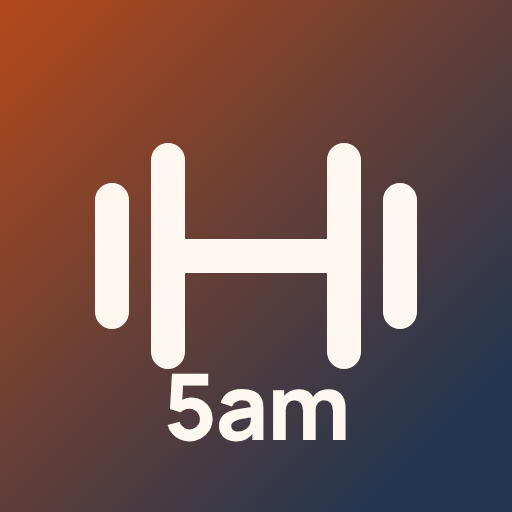
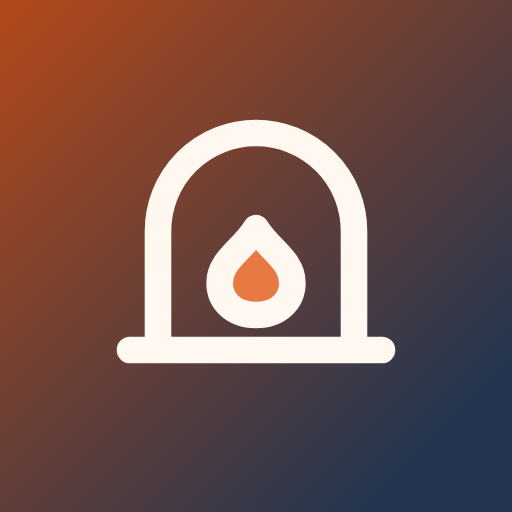
Rename the app to Kiln
Owner-chosen name. New kiln-and-ember brand mark in the header and on the
app icon (copper-to-navy). Home-screen name, page title, manifest, Coach
Claude's system prompt, snapshot, backup/CSV file names, test-QR page and
README updated. The backup format id stays '5am-workout' so existing
backups still restore.

Claude-Session: https://claude.ai/code/session_01LoLbERHwtNurjoYvqErftT

Changed region(s): [[0.1875, 0.2188, 0.8125, 0.875], [0.4375, 0.4062, 0.5625, 0.4688]]

diff --git a/index.html b/index.html
@@ -7,9 +7,9 @@
 <meta name="apple-mobile-web-app-capable" content="yes">
 <meta name="mobile-web-app-capable" content="yes">
 <meta name="apple-mobile-web-app-status-bar-style" content="black-translucent">
-<meta name="apple-mobile-web-app-title" content="5am Workout">
-<meta name="description" content="Scan Crunch machines, log sets, track the scale, and let Coach Claude forecast your path to your goal.">
-<title>5am Workout</title>
+<meta name="apple-mobile-web-app-title" content="Kiln">
+<meta name="description" content="Kiln: scan Crunch machines, log sets, track the scale, and let Coach Claude forecast your path to your goal.">
+<title>Kiln</title>
 <link rel="manifest" href="manifest.webmanifest">
 <link rel="icon" href="icons/icon.svg" type="image/svg+xml">
 <link rel="apple-touch-icon" href="icons/apple-touch-icon.png">
@@ -18,7 +18,7 @@
 </head>
 <body>
 <header class="top">
-  <a class="brand" href="#/today" aria-label="5am Workout home"><span class="logo">5am</span><span class="brand-name">Workout</span></a>
+  <a class="brand" href="#/today" aria-label="Kiln home"><span class="logo"><svg class="i" width="20" height="20" viewBox="0 0 24 24" fill="none" stroke="currentColor" stroke-width="2.2" stroke-linecap="round" stroke-linejoin="round" aria-hidden="true"><path d="M5 20v-8.5a7 7 0 0 1 14 0V20M3 20h18"/><path d="M12 17.5c-1.6 0-2.6-1-2.6-2.3 0-1.6 1.6-2.3 2.6-3.9 1 1.6 2.6 2.3 2.6 3.9 0 1.3-1 2.3-2.6 2.3z"/></svg></span><span class="brand-name">Kiln</span></a>
   <button class="safety-btn" data-act="safety"><svg class="i" width="15" height="15" viewBox="0 0 24 24" fill="none" stroke="currentColor" stroke-width="2" stroke-linecap="round" stroke-linejoin="round" aria-hidden="true"><path d="M12 3l9.5 17h-19zM12 10v4M12 17.2v.3"/></svg> Safety</button>
 </header>
 

diff --git a/test-qr/index.html b/test-qr/index.html
@@ -2,7 +2,7 @@
 <title>Test QR codes</title><style>body{font:16px system-ui,sans-serif;margin:24px;color:#1d1433;background:#fff4ec}
 main{display:flex;flex-wrap:wrap;gap:24px}figure{margin:0;background:#fff;padding:16px;border-radius:20px;box-shadow:0 8px 24px rgba(0,0,0,.08);text-align:center}
 code{font-size:11px;word-break:break-all}</style></head><body>
-<h1>Test QR codes for 5am Workout</h1><p>Open this page on a laptop, then use the app's <b>Scan</b> tab on your iPhone to try the flow at home — no gym needed. These are fake machines (example.com).</p>
+<h1>Test QR codes for Kiln</h1><p>Open this page on a laptop, then use the app's <b>Scan</b> tab on your iPhone to try the flow at home — no gym needed. These are fake machines (example.com).</p>
 <main><figure><img src="leg-press.png" alt="Test QR for Leg press" width="240" height="240"><figcaption><b>Leg press</b><br><code>https://example.com/crunch-stratford-test/seated-leg-press</code></figcaption></figure>
 <figure><img src="cable.png" alt="Test QR for Cable station" width="240" height="240"><figcaption><b>Cable station</b><br><code>https://example.com/crunch-stratford-test/cable-crossover</code></figcaption></figure>
 <figure><img src="chest-press.png" alt="Test QR for Chest press" width="240" height="240"><figcaption><b>Chest press</b><br><code>https://example.com/crunch-stratford-test/chest-press</code></figcaption></figure>

diff --git a/css/app.css b/css/app.css
@@ -82,7 +82,8 @@ h1, h2, h3 { font-weight: 800; }
   padding: 10px 16px; padding-top: max(10px, env(safe-area-inset-top));
   background: color-mix(in srgb, var(--bg) 88%, transparent); backdrop-filter: blur(14px); -webkit-backdrop-filter: blur(14px); }
 .brand { flex: 1; display: flex; align-items: center; gap: 7px; text-decoration: none; font-weight: 800; font-size: 19px; letter-spacing: -.3px; }
-.logo { background: var(--accent); color: var(--on-accent); padding: 2px 8px; border-radius: 9px; font-size: 15px; }
+.logo { width: 32px; height: 32px; display: grid; place-items: center; background: var(--accent); color: var(--on-accent); border-radius: 10px; }
+.brand-name { font-size: 21px; letter-spacing: -.4px; }
 .safety-btn { display: inline-flex; align-items: center; gap: 5px; background: transparent; color: var(--danger);
   border: 1.5px solid var(--danger); border-radius: 999px; padding: 6px 12px; font-weight: 700; font-size: 13px; }
 main { padding: 4px 16px 120px; max-width: 640px; margin: 0 auto; outline: none; display: flex; flex-direction: column; gap: 12px; }

diff --git a/js/views/me.js b/js/views/me.js
@@ -184,7 +184,7 @@ export const actions = {
   testHealthW: () => sendWeight(180),
   testHealthWo: () => sendWorkout(1),
   exportJson() {
-    download(`5am-workout-backup-${todayStr()}.json`, JSON.stringify(exportAll(), null, 1));
+    download(`kiln-backup-${todayStr()}.json`, JSON.stringify(exportAll(), null, 1));
     markBackedUp();
     if (current().name === 'today') rerender({ keepScroll: true }); // drop the reminder card
   },
@@ -192,6 +192,6 @@ export const actions = {
     const ex = allExercises();
     const rows = [['date', 'exercise', 'set', 'weight_lb', 'reps', 'rpe', 'minutes', 'machine', 'note']];
     for (const e of getLog()) e.sets.forEach((s, i) => rows.push([e.date, ex[e.exId] ? ex[e.exId].name : e.exId, i + 1, s.w ?? '', s.r ?? '', s.rpe ?? '', s.min ?? '', e.machineId || '', i === 0 ? e.note || '' : '']));
-    download(`5am-workout-${todayStr()}.csv`, rows.map(r => r.map(csvCell).join(',')).join('\n'), 'text/csv');
+    download(`kiln-log-${todayStr()}.csv`, rows.map(r => r.map(csvCell).join(',')).join('\n'), 'text/csv');
   }
 };

diff --git a/js/store.js b/js/store.js
@@ -240,6 +240,7 @@ export const getMeta = () => loadTyped('meta', {});
 export const markBackedUp = () => save(KEYS.meta, { ...getMeta(), lastBackup: Date.now() });
 
 export function exportAll() {
+  // '5am-workout' is the backup FORMAT id (the app's original name) — keep it so old and new backups restore.
   const out = { app: '5am-workout', exported: new Date().toISOString(), data: {} };
   for (const k of Object.values(KEYS)) {
     const v = load(k, undefined);
@@ -250,7 +251,7 @@ export function exportAll() {
 
 /** Restore a backup. Validates EVERYTHING first, so a bad file never half-overwrites your data. */
 export function importAll(obj) {
-  if (!isObj(obj) || obj.app !== '5am-workout' || !isObj(obj.data)) throw new Error('Not a 5am Workout backup file');
+  if (!isObj(obj) || obj.app !== '5am-workout' || !isObj(obj.data)) throw new Error('Not a Kiln backup file');
   const byKey = Object.fromEntries(Object.entries(KEYS).map(([name, key]) => [key, name]));
   const writes = [];
   for (const [k, v] of Object.entries(obj.data)) {

diff --git a/api/coach.js b/api/coach.js
@@ -33,7 +33,7 @@ export const CoachReport = z.object({
   questions_for_doctor: z.array(z.string()).describe('Medical questions to bring to the cardiologist. Empty if none.')
 });
 
-export const SYSTEM = `You are Coach Claude, the strength coach inside the "5am Workout" app used at Crunch Fitness. The member likes being called "Brother" — keep it warm, upbeat and brief.
+export const SYSTEM = `You are Coach Claude, the strength coach inside "Kiln", a training app used at Crunch Fitness. The member likes being called "Brother" — keep it warm, upbeat and brief.
 
 You get a JSON snapshot: the member's goal, their logged machines/exercises (sets as weight×reps@RPE, pounds), body-weight weigh-ins from the gym scale, adherence, notes, the app's own trend estimates, and their safety context. Analyze progress and forecast the best path to the goal.
 

diff --git a/tests/store.test.js b/tests/store.test.js
@@ -80,7 +80,7 @@ test('restore validates everything before writing anything (v1 bug S4)', () => {
   reset();
   addSet({ exId: 'legpress', set: { w: 100, r: 12 } });
   const before = localStorage.getItem('wh_log');
-  assert.throws(() => importAll({ app: 'other', data: {} }), /Not a 5am Workout backup/);
+  assert.throws(() => importAll({ app: 'other', data: {} }), /Not a Kiln backup/);
   assert.throws(() => importAll({ app: '5am-workout', data: { wh_goal: { type: 'lose' }, wh_log: { not: 'an array' } } }), /wrong shape/);
   assert.throws(() => importAll({ app: '5am-workout', data: { wh_log: [{ date: 5 }] } }), /damaged/);
   assert.equal(localStorage.getItem('wh_log'), before);

diff --git a/js/coach.js b/js/coach.js
@@ -50,7 +50,7 @@ export function buildSnapshot() {
   Object.keys(daily).sort().slice(-7).forEach(d => { if (daily[d].note) notes.push({ date: d, exercise: 'daily', note: daily[d].note }); });
 
   return {
-    app: '5am Workout', gym: getSettings().gymName, today, units: 'lb',
+    app: 'Kiln', gym: getSettings().gymName, today, units: 'lb',
     goal: {
       type: goal.type, target_weight_lb: goal.targetWeight || null, target_date: goal.targetDate || null,
       sessions_per_week: goal.sessionsPerWeek, strength_goal: goal.strengthTarget ? { exercise_id: goal.strengthEx, target_lb: +goal.strengthTarget } : null,

diff --git a/js/icons.js b/js/icons.js
@@ -1,5 +1,6 @@
 // Line icons (24px grid, 2px stroke, currentColor) — one consistent set instead of emoji.
 const P = {
+  kiln: '<path d="M5 20v-8.5a7 7 0 0 1 14 0V20M3 20h18"/><path d="M12 17.5c-1.6 0-2.6-1-2.6-2.3 0-1.6 1.6-2.3 2.6-3.9 1 1.6 2.6 2.3 2.6 3.9 0 1.3-1 2.3-2.6 2.3z"/>',
   home: '<path d="M3 11l9-7 9 7v9a1 1 0 0 1-1 1h-5v-6H9v6H4a1 1 0 0 1-1-1z"/>',
   dumbbell: '<path d="M6 7v10M3 9v6M18 7v10M21 9v6M6 12h12"/>',
   scan: '<path d="M4 8V5a1 1 0 0 1 1-1h3M16 4h3a1 1 0 0 1 1 1v3M20 16v3a1 1 0 0 1-1 1h-3M8 20H5a1 1 0 0 1-1-1v-3M7 12h10"/>',

diff --git a/js/app.js b/js/app.js
@@ -28,7 +28,7 @@ const ACTIONS = {
   restStop: () => stopRest(),
   safety: () => openSafety(),
   safetyClose: () => { $('#safety').hidden = true; },
-  rescueExport: () => download(`5am-workout-RESCUE-${todayStr()}.json`, JSON.stringify({ app: '5am-workout-raw', data: rawDump() }, null, 1)),
+  rescueExport: () => download(`kiln-RESCUE-${todayStr()}.json`, JSON.stringify({ app: 'kiln-raw', data: rawDump() }, null, 1)),
   reload: () => location.reload()
 };
 const CHANGES = merge('changes');

diff --git a/README.md b/README.md
@@ -1,4 +1,4 @@
-# 5am Workout 🏋♂📷
+# Kiln
 
 An iPhone web app (installs to your home screen) for **Crunch Stratford**: scan the QR sticker on any machine, log your sets, track the gym scale, and let **Coach Claude** analyze your training and forecast the best path to your goal.
 
@@ -40,7 +40,7 @@ The flow is: **Claude edits code → GitHub (PR) → you Merge → Vercel redepl
 ### 2. Install on the iPhone
 1. Open your Vercel URL in **Safari**.
 2. Tap **Share** → **Add to Home Screen** → **Add**.
-3. Open **5am Workout** from the home-screen icon (not from Safari). Tap **Scan** and **Allow** the camera.
+3. Open **Kiln** from the home-screen icon (not from Safari). Tap **Scan** and **Allow** the camera.
 4. Go to **Me → ✨ Coach Claude setup** and enter the same `COACH_PASSCODE`.
 
 ### 3. (Optional) Apple Health
